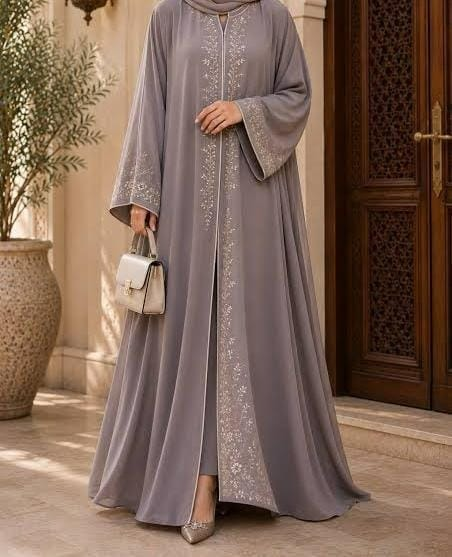
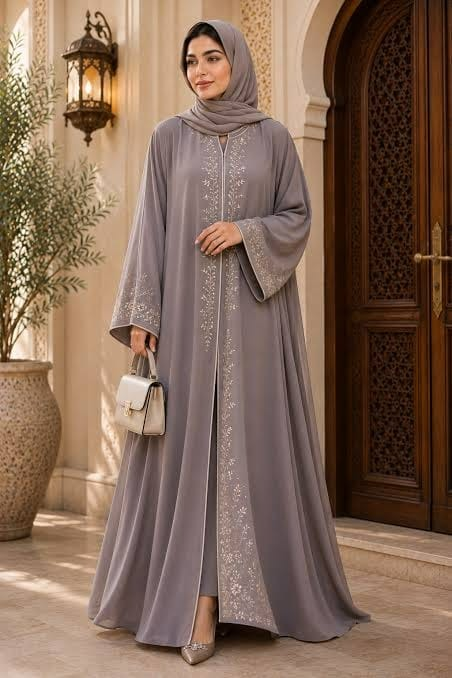
feat: use courtyard embroidered abaya image for abayas, move previous abaya photo to traditional wear, and use rose gold diamond watch image for watch cards

diff --git a/public/index.html b/public/index.html
@@ -317,9 +317,9 @@
       </div>
 
       <div class="grid grid-cols-2 md:grid-cols-4 gap-4 sm:gap-6 lg:gap-8">
-        <!-- Tile 1: Abayas -->
+        <!-- Tile 1: Abayas (Updated to Authentic Courtyard Embroidered Abaya) -->
         <div onclick="filterCategory('abayas')" class="group cursor-pointer relative rounded-2xl overflow-hidden aspect-[3/4] bg-charcoal/10 shadow-sm border border-subtleBorder">
-          <img src="https://images.unsplash.com/photo-1583391733956-3750e0ff4e8b?q=80&w=800&auto=format&fit=crop" alt="Abayas" class="w-full h-full object-cover transition-transform duration-700 group-hover:scale-108">
+          <img src="/images/products/abaya-taupe-courtyard.jpg" alt="Abayas" class="w-full h-full object-cover transition-transform duration-700 group-hover:scale-108">
           <div class="absolute inset-0 bg-gradient-to-t from-charcoal/80 via-charcoal/20 to-transparent"></div>
           <div class="absolute bottom-0 inset-x-0 p-5 text-center text-white">
             <h3 class="font-serif text-xl sm:text-2xl font-bold tracking-wide">Abayas</h3>
@@ -327,9 +327,9 @@
           </div>
         </div>
 
-        <!-- Tile 2: Traditional Wear (User Uploaded Image) -->
+        <!-- Tile 2: Traditional Wear (Updated to Traditional Look Previously on Abaya Card) -->
         <div onclick="filterCategory('traditional-wear')" class="group cursor-pointer relative rounded-2xl overflow-hidden aspect-[3/4] bg-charcoal/10 shadow-sm border border-subtleBorder">
-          <img src="/images/products/traditional-blue-lace.jpg" alt="Traditional Wear" class="w-full h-full object-cover transition-transform duration-700 group-hover:scale-108">
+          <img src="https://images.unsplash.com/photo-1583391733956-3750e0ff4e8b?q=80&w=800&auto=format&fit=crop" alt="Traditional Wear" class="w-full h-full object-cover transition-transform duration-700 group-hover:scale-108">
           <div class="absolute inset-0 bg-gradient-to-t from-charcoal/80 via-charcoal/20 to-transparent"></div>
           <div class="absolute bottom-0 inset-x-0 p-5 text-center text-white">
             <h3 class="font-serif text-xl sm:text-2xl font-bold tracking-wide">Traditional Wear</h3>
@@ -347,9 +347,9 @@
           </div>
         </div>
 
-        <!-- Tile 4: Watches -->
+        <!-- Tile 4: Watches (Updated to Rose Gold Diamond Watch) -->
         <div onclick="filterCategory('watches')" class="group cursor-pointer relative rounded-2xl overflow-hidden aspect-[3/4] bg-charcoal/10 shadow-sm border border-subtleBorder">
-          <img src="https://images.unsplash.com/photo-1524805444758-089113d48a6d?q=80&w=800&auto=format&fit=crop" alt="Watches" class="w-full h-full object-cover transition-transform duration-700 group-hover:scale-108">
+          <img src="/images/products/watch-rose-gold-diamond.png" alt="Watches" class="w-full h-full object-cover transition-transform duration-700 group-hover:scale-108">
           <div class="absolute inset-0 bg-gradient-to-t from-charcoal/80 via-charcoal/20 to-transparent"></div>
           <div class="absolute bottom-0 inset-x-0 p-5 text-center text-white">
             <h3 class="font-serif text-xl sm:text-2xl font-bold tracking-wide">Watches</h3>
@@ -394,7 +394,7 @@
         <div class="bg-white rounded-3xl overflow-hidden border border-subtleBorder shadow-xl grid grid-cols-1 lg:grid-cols-12 items-center">
           
           <div class="lg:col-span-6 h-80 sm:h-96 lg:h-full relative overflow-hidden">
-            <img src="https://images.unsplash.com/photo-1518049362265-d5b2a6467637?q=80&w=1200&auto=format&fit=crop" alt="Bespoke Abaya Craftsmanship" class="w-full h-full object-cover">
+            <img src="/images/products/abaya-taupe-courtyard.jpg" alt="Bespoke Abaya Craftsmanship" class="w-full h-full object-cover">
             <div class="absolute inset-0 bg-gradient-to-r from-transparent to-black/20"></div>
             <div class="absolute top-6 left-6 bg-white/90 backdrop-blur-md px-3.5 py-1.5 rounded-full text-[10px] font-bold tracking-widest uppercase text-antiqueGold border border-antiqueGold/30">
               Handcrafted To Order
@@ -492,13 +492,13 @@
         </div>
 
         <div class="grid grid-cols-1 md:grid-cols-3 gap-6">
-          <!-- Item 1: Abaya -->
+          <!-- Item 1: Abaya (Updated to Courtyard Embroidered Abaya) -->
           <div class="bg-white rounded-2xl p-5 border border-subtleBorder shadow-sm flex flex-col items-center text-center">
-            <img src="https://images.unsplash.com/photo-1583391733956-3750e0ff4e8b?q=80&w=600&auto=format&fit=crop" alt="Noor Abaya" class="w-full h-72 object-cover rounded-xl mb-4">
+            <img src="/images/products/abaya-taupe-courtyard.jpg" alt="Zunaira Royal Abaya" class="w-full h-72 object-cover rounded-xl mb-4">
             <span class="text-[10px] text-antiqueGold font-bold uppercase tracking-wider mb-1">Base Ensemble</span>
-            <h4 class="font-serif text-lg font-bold text-charcoal">Noor Black Crepe Abaya</h4>
-            <p class="text-xs font-semibold text-dustyRose mt-1">₹4,999</p>
-            <button onclick="quickViewProduct('noor-black-crepe-open-front-abaya')" class="mt-4 text-xs font-semibold text-charcoal hover:text-dustyRose border border-subtleBorder hover:border-dustyRose px-4 py-2 rounded-lg transition-colors">View Details</button>
+            <h4 class="font-serif text-lg font-bold text-charcoal">Zunaira Embroidered Royal Abaya</h4>
+            <p class="text-xs font-semibold text-dustyRose mt-1">₹6,799</p>
+            <button onclick="quickViewProduct('zunaira-dusty-taupe-embroidered-royal-abaya')" class="mt-4 text-xs font-semibold text-charcoal hover:text-dustyRose border border-subtleBorder hover:border-dustyRose px-4 py-2 rounded-lg transition-colors">View Details</button>
           </div>
 
           <!-- Item 2: Toile Bag (User Uploaded Image) -->
@@ -510,13 +510,13 @@
             <button onclick="quickViewProduct('toile-de-jouy-structured-ribbon-handbag')" class="mt-4 text-xs font-semibold text-charcoal hover:text-dustyRose border border-subtleBorder hover:border-dustyRose px-4 py-2 rounded-lg transition-colors">View Details</button>
           </div>
 
-          <!-- Item 3: Slim Watch -->
+          <!-- Item 3: Rose Gold Diamond Watch (User Uploaded Image) -->
           <div class="bg-white rounded-2xl p-5 border border-subtleBorder shadow-sm flex flex-col items-center text-center">
-            <img src="https://images.unsplash.com/photo-1524805444758-089113d48a6d?q=80&w=600&auto=format&fit=crop" alt="Heritage Watch" class="w-full h-72 object-cover rounded-xl mb-4">
+            <img src="/images/products/watch-rose-gold-diamond.png" alt="Diamond Crystal Watch" class="w-full h-72 object-cover rounded-xl mb-4">
             <span class="text-[10px] text-antiqueGold font-bold uppercase tracking-wider mb-1">Timepiece</span>
-            <h4 class="font-serif text-lg font-bold text-charcoal">Heritage Rose Gold Mesh Watch</h4>
-            <p class="text-xs font-semibold text-dustyRose mt-1">₹5,299</p>
-            <button onclick="quickViewProduct('heritage-rose-gold-mesh-watch')" class="mt-4 text-xs font-semibold text-charcoal hover:text-dustyRose border border-subtleBorder hover:border-dustyRose px-4 py-2 rounded-lg transition-colors">View Details</button>
+            <h4 class="font-serif text-lg font-bold text-charcoal">Diamond Crystal Rose Gold Watch</h4>
+            <p class="text-xs font-semibold text-dustyRose mt-1">₹6,499</p>
+            <button onclick="quickViewProduct('mother-of-pearl-diamond-bezel-watch')" class="mt-4 text-xs font-semibold text-charcoal hover:text-dustyRose border border-subtleBorder hover:border-dustyRose px-4 py-2 rounded-lg transition-colors">View Details</button>
           </div>
         </div>
       </div>

diff --git a/public/store.js b/public/store.js
@@ -221,24 +221,24 @@ const DEFAULT_PRODUCTS = [
   },
   {
     id: 8,
-    title: 'Heritage Rose Gold Mesh Watch',
-    slug: 'heritage-rose-gold-mesh-watch',
+    title: 'Diamond Crystal Pavé Rose Gold Watch',
+    slug: 'diamond-crystal-pave-rose-gold-watch',
     category_id: 4,
     category_name: 'Watches',
     category_slug: 'watches',
-    price: 5299,
-    compare_at_price: 6499,
+    price: 6499,
+    compare_at_price: 7999,
     is_new_arrival: 1,
     is_best_seller: 1,
-    short_description: 'Ultra-slim 6mm rose gold timepiece with Milanese mesh strap.',
-    description: 'An ultra-slim 6mm profile engineered to slide comfortably under abaya sleeves without catching. Features an ivory enamel dial, rose gold Milanese magnetic strap, and Japanese quartz movement.',
+    short_description: 'Radiant rose gold timepiece adorned with diamond crystal pavé bracelet.',
+    description: 'A breathtaking jewelry watch designed for celebration and formal elegance. Features a brilliant crystal-encrusted bezel and bracelet, polished rose gold sunburst dial with Roman numerals, and royal blue hands.',
     images: [
-      'https://images.unsplash.com/photo-1524805444758-089113d48a6d?q=80&w=900&auto=format&fit=crop'
+      '/images/products/watch-rose-gold-diamond.png'
     ],
-    fabric_care: 'Case: 32mm Rose Gold Stainless Steel. Water Resistance: 3 ATM (Splash resistant).',
-    tags: ['watch', 'rose-gold', 'mesh', 'slim', 'minimal'],
+    fabric_care: 'Case: 32mm Rose Gold Alloy & Pavé Crystals. Japanese Quartz Movement.',
+    tags: ['watch', 'rose-gold', 'diamond', 'crystal', 'luxury'],
     variants: [
-      { id: 23, size: '32mm', color: 'Rose Gold' }
+      { id: 23, size: 'Free Size (Adjustable)', color: 'Rose Gold & Diamond' }
     ]
   },
   {
@@ -255,7 +255,7 @@ const DEFAULT_PRODUCTS = [
     short_description: 'Genuine mother-of-pearl face with antique gold fluted bezel.',
     description: 'Captivating iridescent natural mother-of-pearl dial enclosed within an antique gold fluted bezel set with subtle crystal markers. Fitted with an interchangeable genuine leather strap in blush pink.',
     images: [
-      'https://images.unsplash.com/photo-1522335789203-aabd1fc54bc9?q=80&w=900&auto=format&fit=crop'
+      '/images/products/watch-rose-gold-diamond.png'
     ],
     fabric_care: 'Dial: Genuine White MOP. Movement: Swiss Quartz. Glass: Sapphire Coated.',
     tags: ['watch', 'mother-of-pearl', 'gold', 'blush'],
@@ -578,13 +578,13 @@ const CYLINDER_HERO_ITEMS = [
   },
   {
     id: 10,
-    title: 'Noor Black Crepe Open-Front Abaya',
-    category: 'Abayas',
-    category_slug: 'abayas',
-    price: '₹4,999',
-    tag: 'Silk Crepe Abaya',
-    image: 'https://images.unsplash.com/photo-1583391733956-3750e0ff4e8b?q=80&w=800&auto=format&fit=crop',
-    productId: 1
+    title: 'Diamond Crystal Pavé Rose Gold Watch',
+    category: 'Watches',
+    category_slug: 'handbags',
+    price: '₹6,499',
+    tag: 'Diamond Rose Gold Watch',
+    image: '/images/hero/watch-rose-gold-diamond.png',
+    productId: 8
   }
 ];
 

diff --git a/public/reelmark.html b/public/reelmark.html
@@ -619,7 +619,7 @@
       '/images/hero/look-navy-cutout.jpg',
       '/images/products/traditional-blue-lace.jpg',
       '/images/products/handbag-toile.jpg',
-      'https://images.unsplash.com/photo-1583391733956-3750e0ff4e8b?q=80&w=800&auto=format&fit=crop'
+      '/images/hero/watch-rose-gold-diamond.png'
     ];
 
     let currentMode = 'video'; // 'video' or 'fashion'
